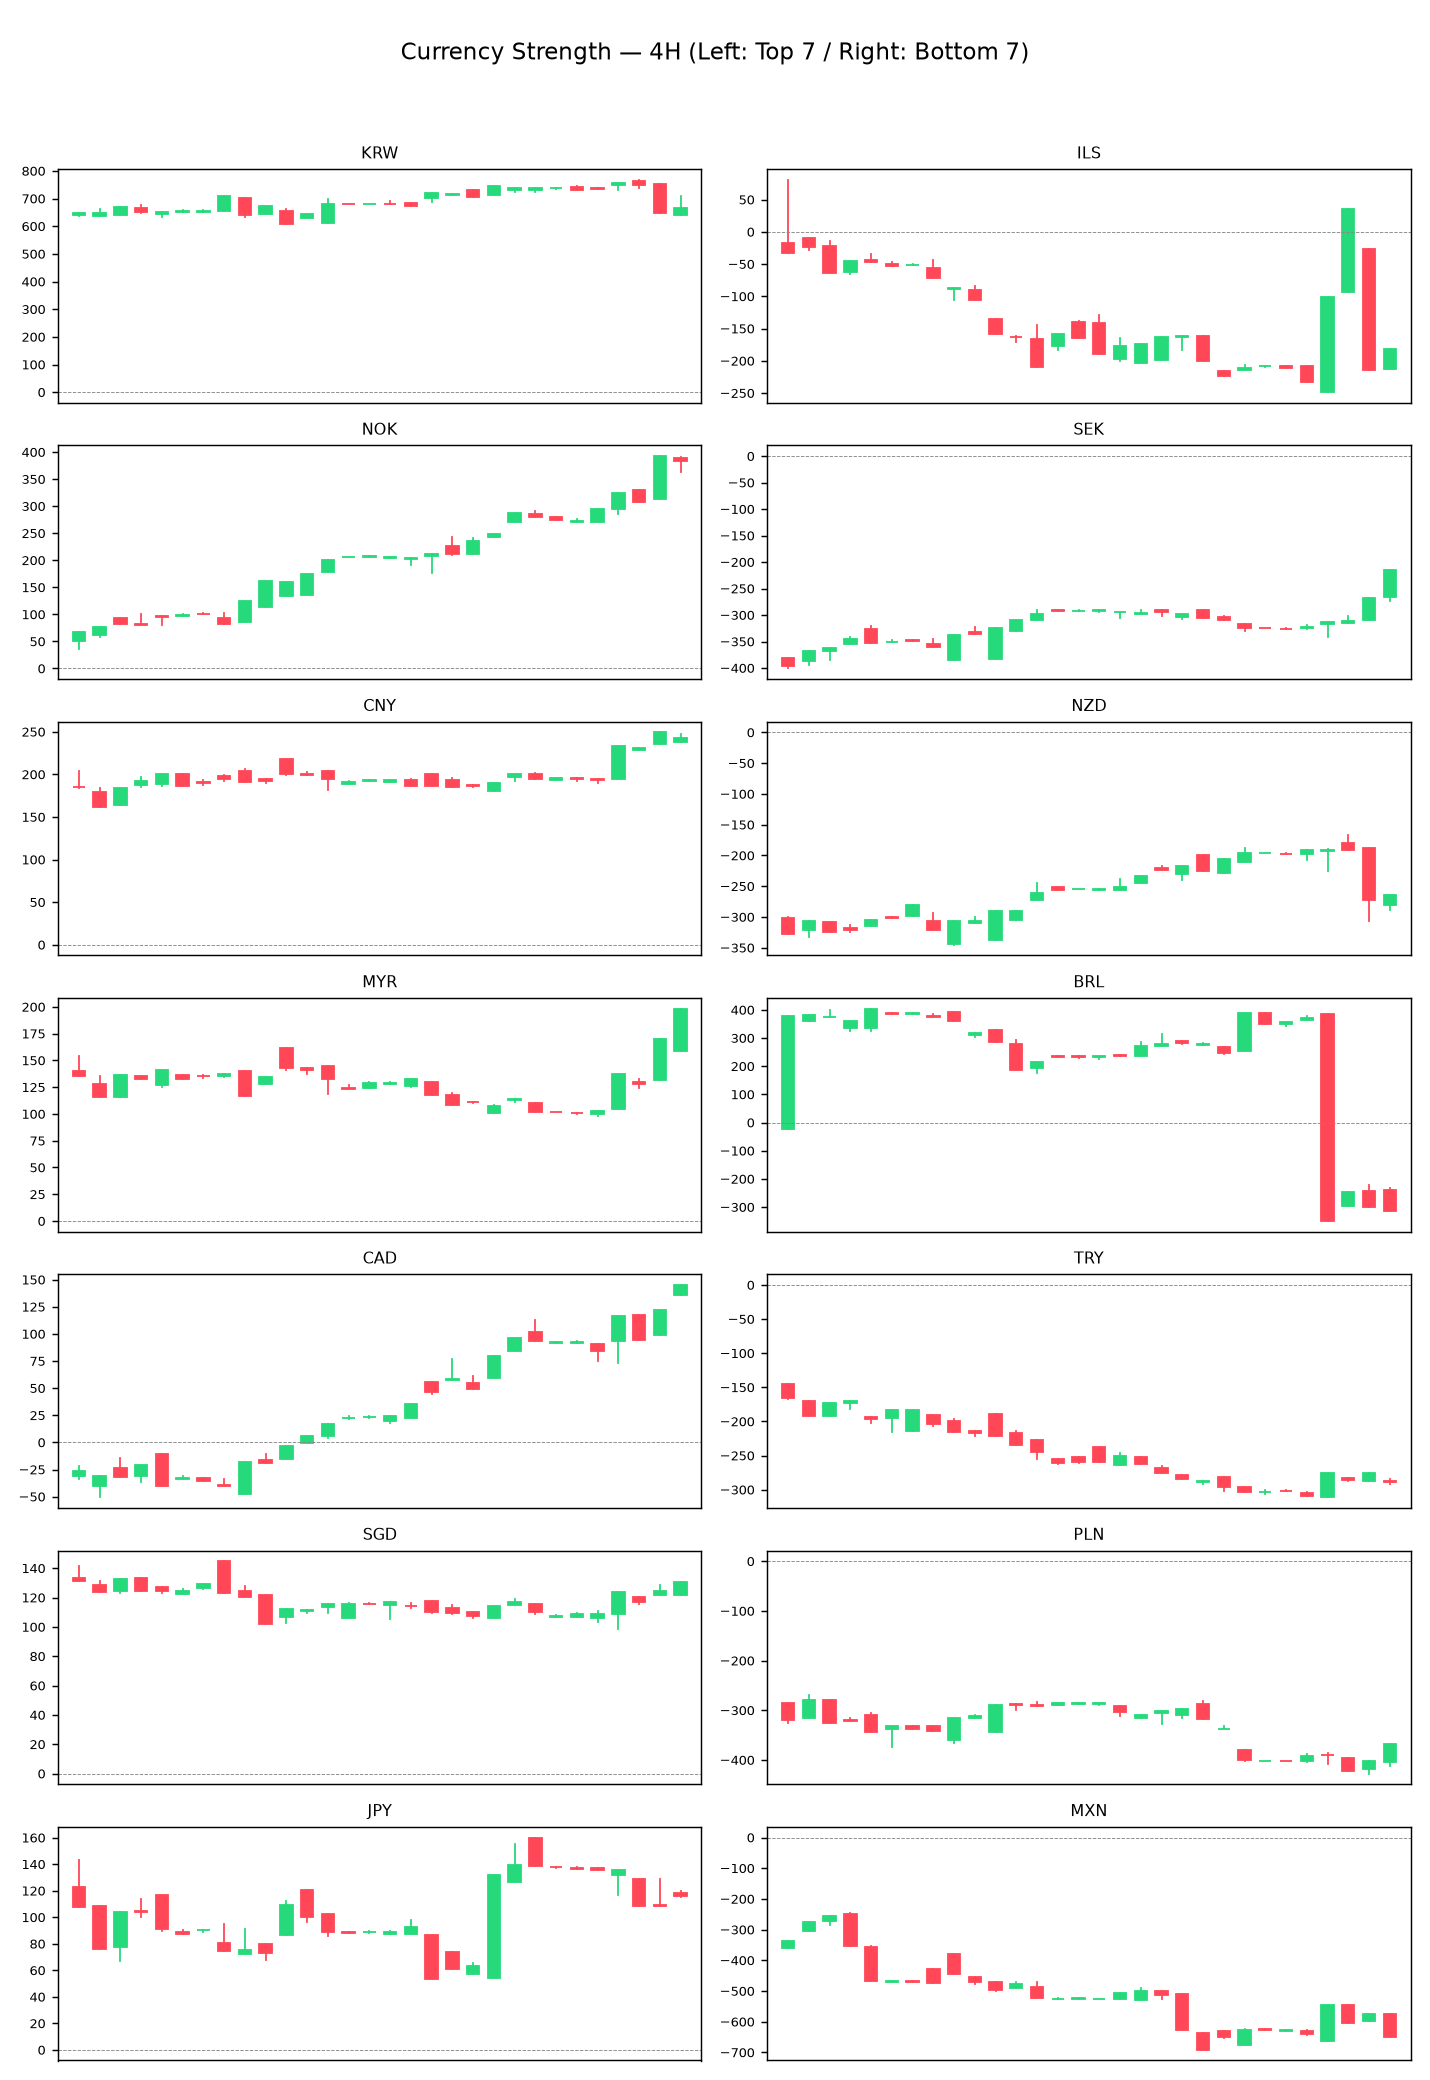
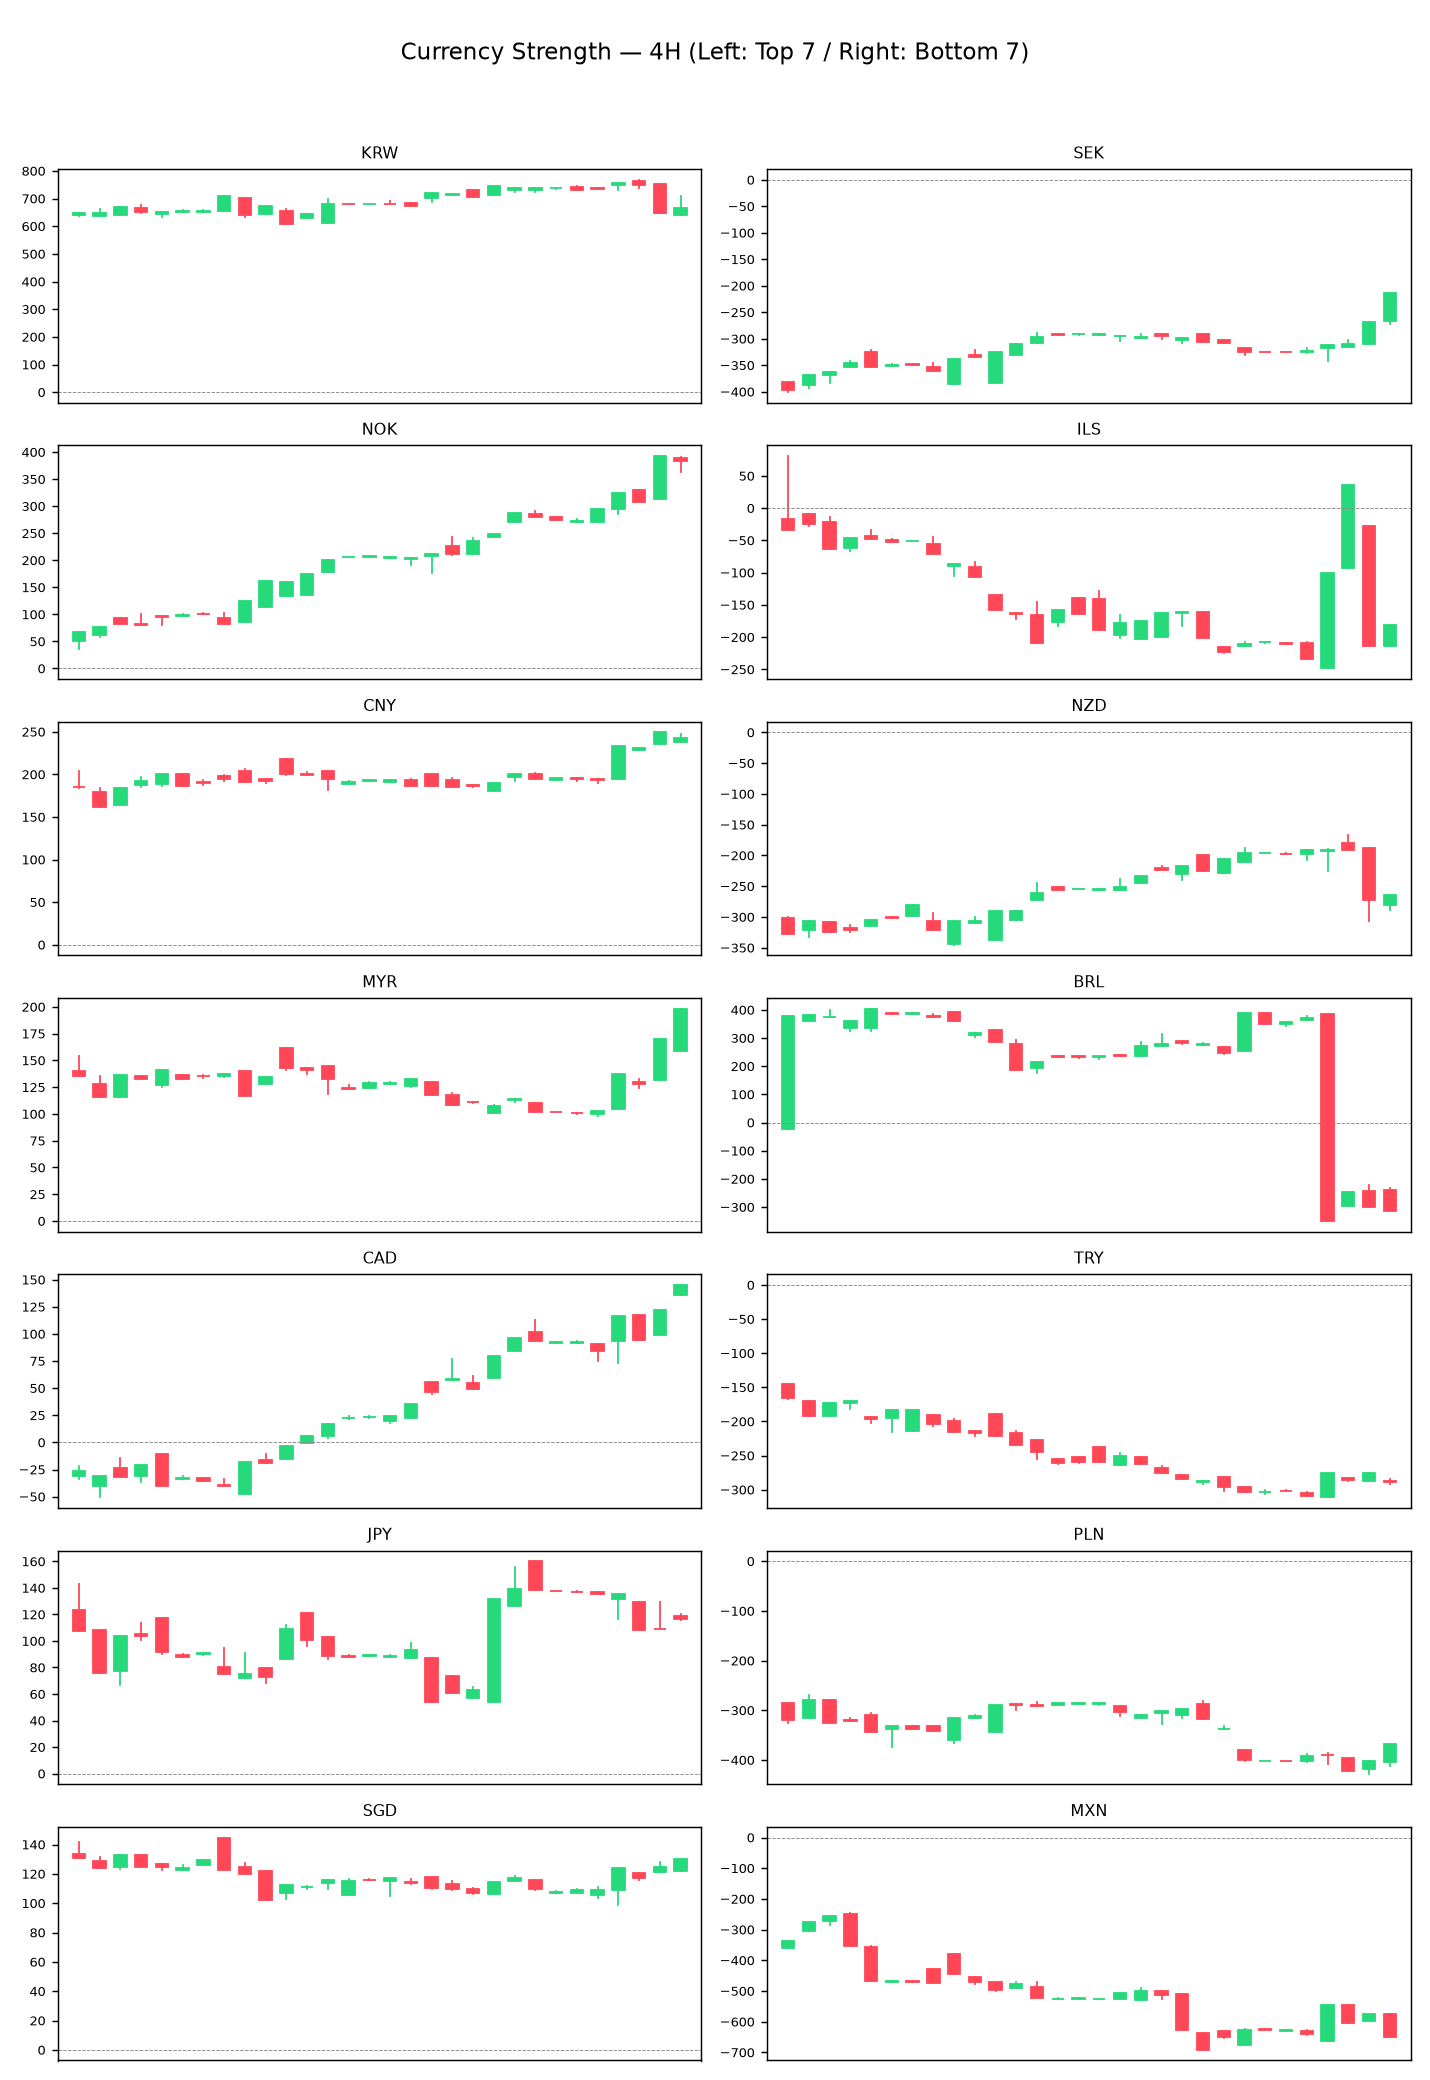
快照 2026-10-30T01:07:02Z

diff --git a/results/latest.md b/results/latest.md
@@ -1,10 +1,29 @@
-# 貨幣強弱快照 — 2026-10-29T21:09:39+00:00
+# 貨幣強弱快照 — 2026-10-30T01:03:39+00:00
 
 ### 1 小時線（跟 1 小時前比）
 （這個區間還沒有足夠久的歷史資料，之後執行會自動補齊）
 
 ### 4 小時線（跟 4 小時前比）
-（這個區間還沒有足夠久的歷史資料，之後執行會自動補齊）
+
+**最強 7 名**
+
+- SEK：+0.426
+- CHF：+0.326
+- MYR：+0.266
+- PLN：+0.174
+- DKK：+0.168
+- EUR：+0.124
+- JPY：+0.114
+
+**最弱 7 名**
+
+- MXN：-0.283
+- AUD：-0.223
+- NZD：-0.203
+- TWD：-0.199
+- BRL：-0.169
+- RUB：-0.150
+- ILS：-0.145
 
 ### 1 日線（跟 24 小時前比）
 （這個區間還沒有足夠久的歷史資料，之後執行會自動補齊）
